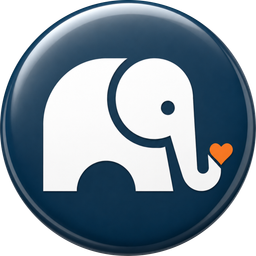
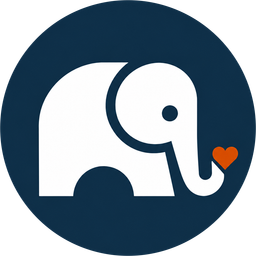
style(chats): elefantes de pagado/registrado en versión plana (Flare) acorde al nuevo diseño

Changed region(s): [[0.0, 0.0, 1.0, 1.0], [0.3125, 0.625, 0.6875, 0.7812], [0.625, 0.375, 0.7188, 0.5]]

diff --git a/public/js/ui_templates.js b/public/js/ui_templates.js
@@ -1618,14 +1618,14 @@ const UserIcon = (contact, size = 'h-9 w-9') => {
     // Pedido pagado/confirmado → insignia de elefante con fondo navy
     if (contact && contact.purchaseStatus === 'completed') {
          return `<div class="${size} rounded-full flex-shrink-0 dekoor-avatar" title="Pedido pagado">
-                <img src="/img/elefante-pagado.png?v=2" alt="Pagado" class="dekoor-avatar-img" loading="lazy">
+                <img src="/img/elefante-pagado.png?v=3" alt="Pagado" class="dekoor-avatar-img" loading="lazy">
             </div>`;
     }
 
     // Pedido registrado sin pagar → insignia de elefante con fondo claro
     if (contact && contact.purchaseStatus === 'registered') {
          return `<div class="${size} rounded-full flex-shrink-0 dekoor-avatar" title="Pedido registrado (sin pagar)">
-                <img src="/img/elefante-registrado.png?v=2" alt="Registrado" class="dekoor-avatar-img" loading="lazy">
+                <img src="/img/elefante-registrado.png?v=3" alt="Registrado" class="dekoor-avatar-img" loading="lazy">
             </div>`;
     }
 

diff --git a/public/index.html b/public/index.html
@@ -585,7 +585,7 @@
     <script src="js/modules/firebase-init.js"></script>
     <script src="js/modules/state.js?v=18"></script>
     <script src="js/modules/utils.js?v=3"></script>
-    <script src="js/ui_templates.js?v=91"></script>
+    <script src="js/ui_templates.js?v=92"></script>
     <script src="js/modules/api-service.js?v=19"></script>
     <script src="js/modules/difusion-handlers.js"></script>
     <script src="js/modules/ui-manager.js?v=163"></script>
